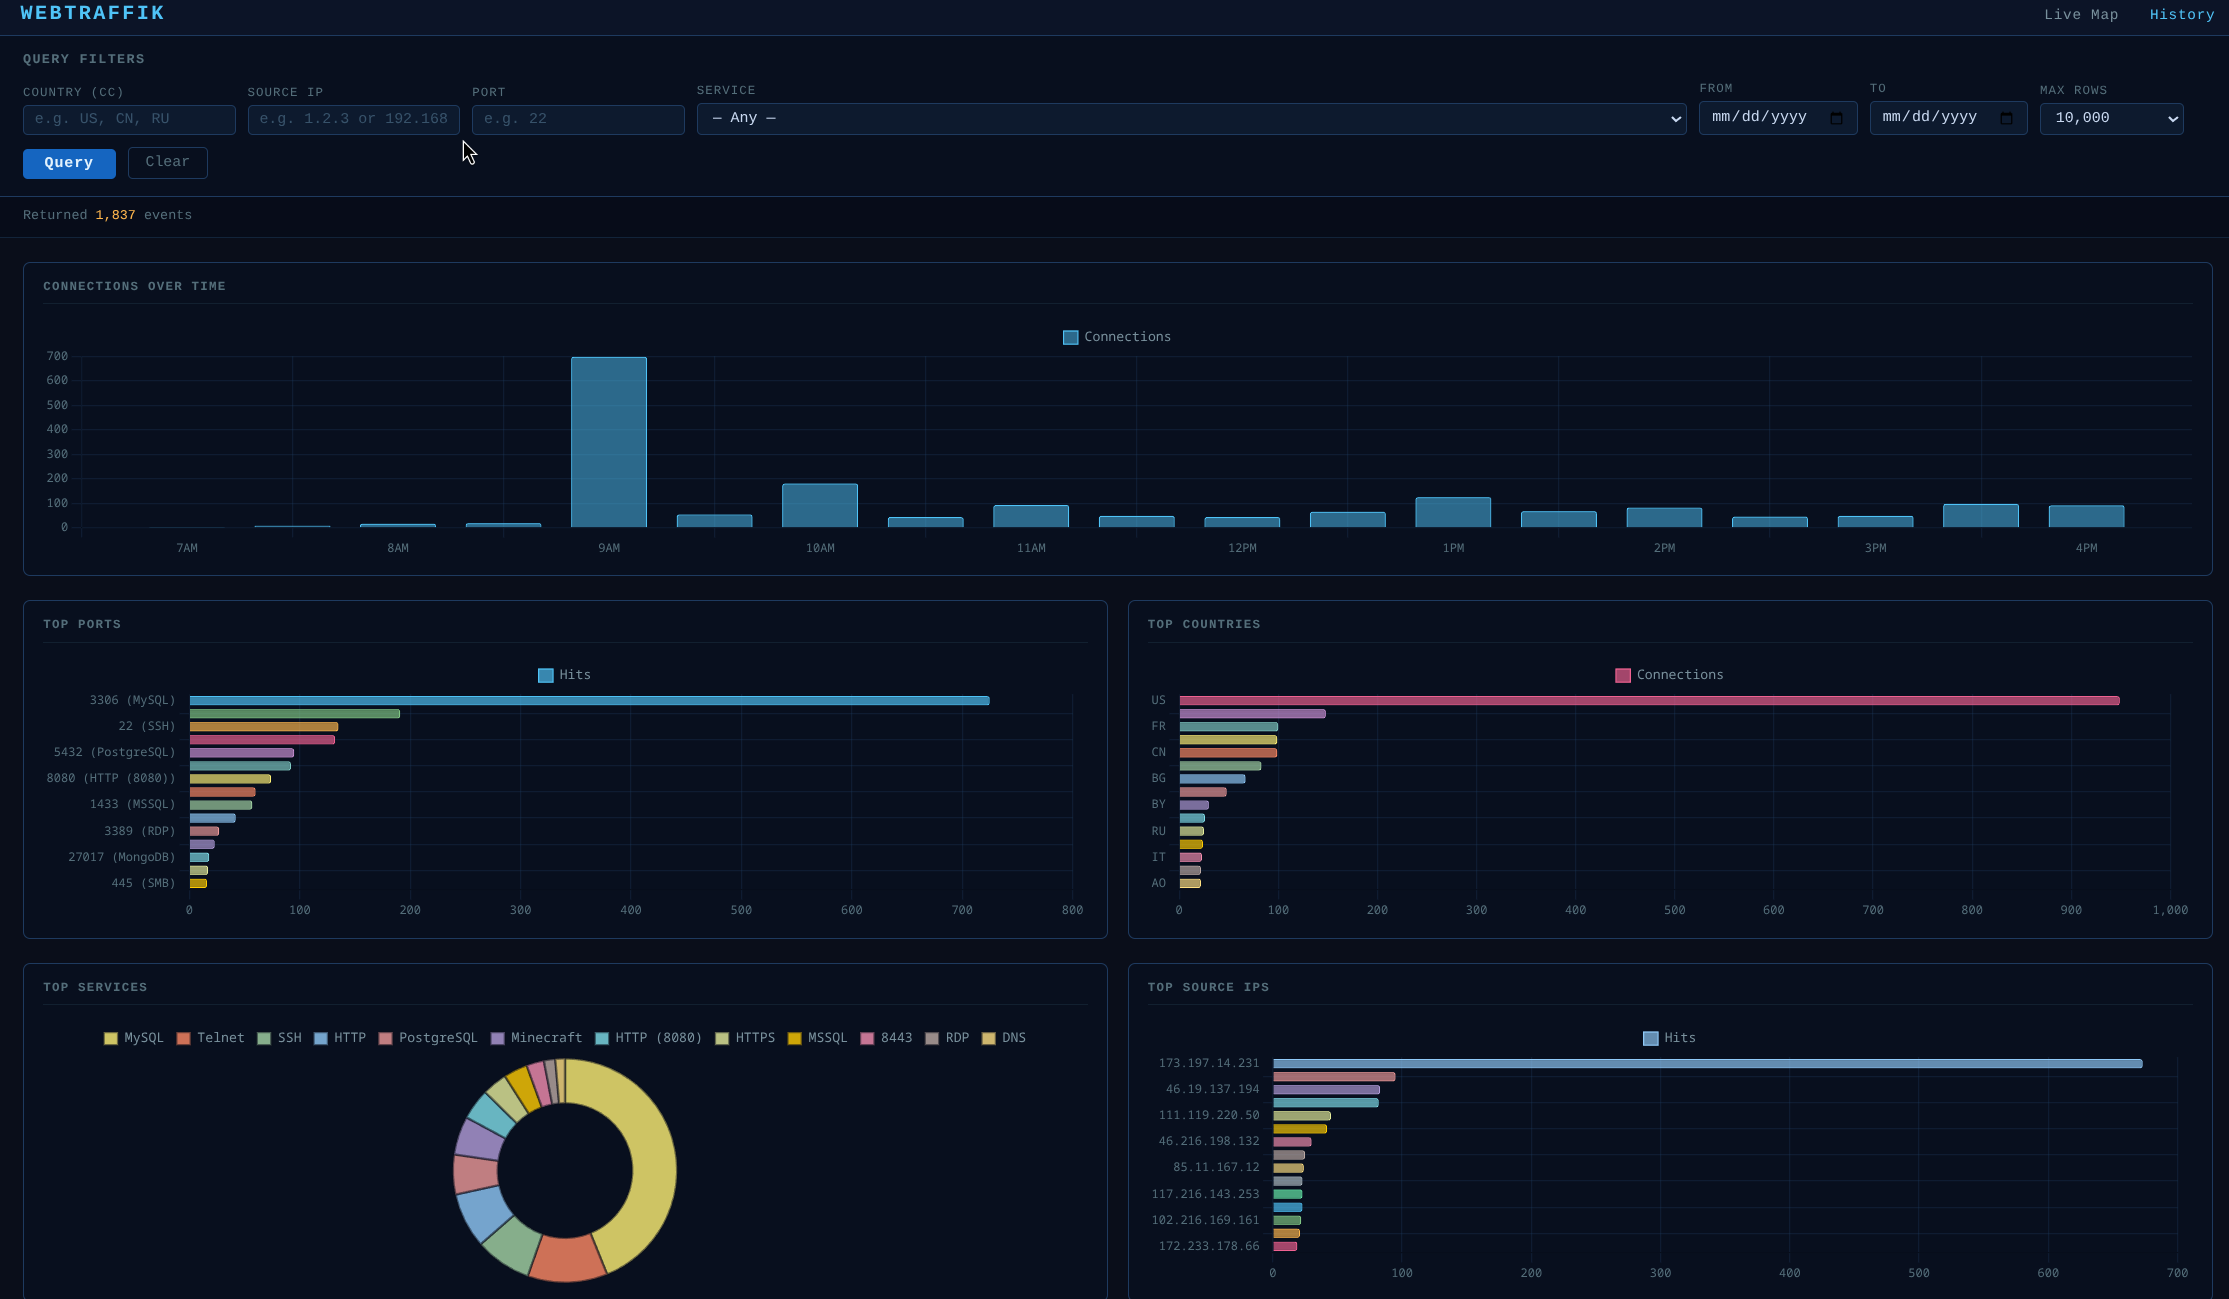
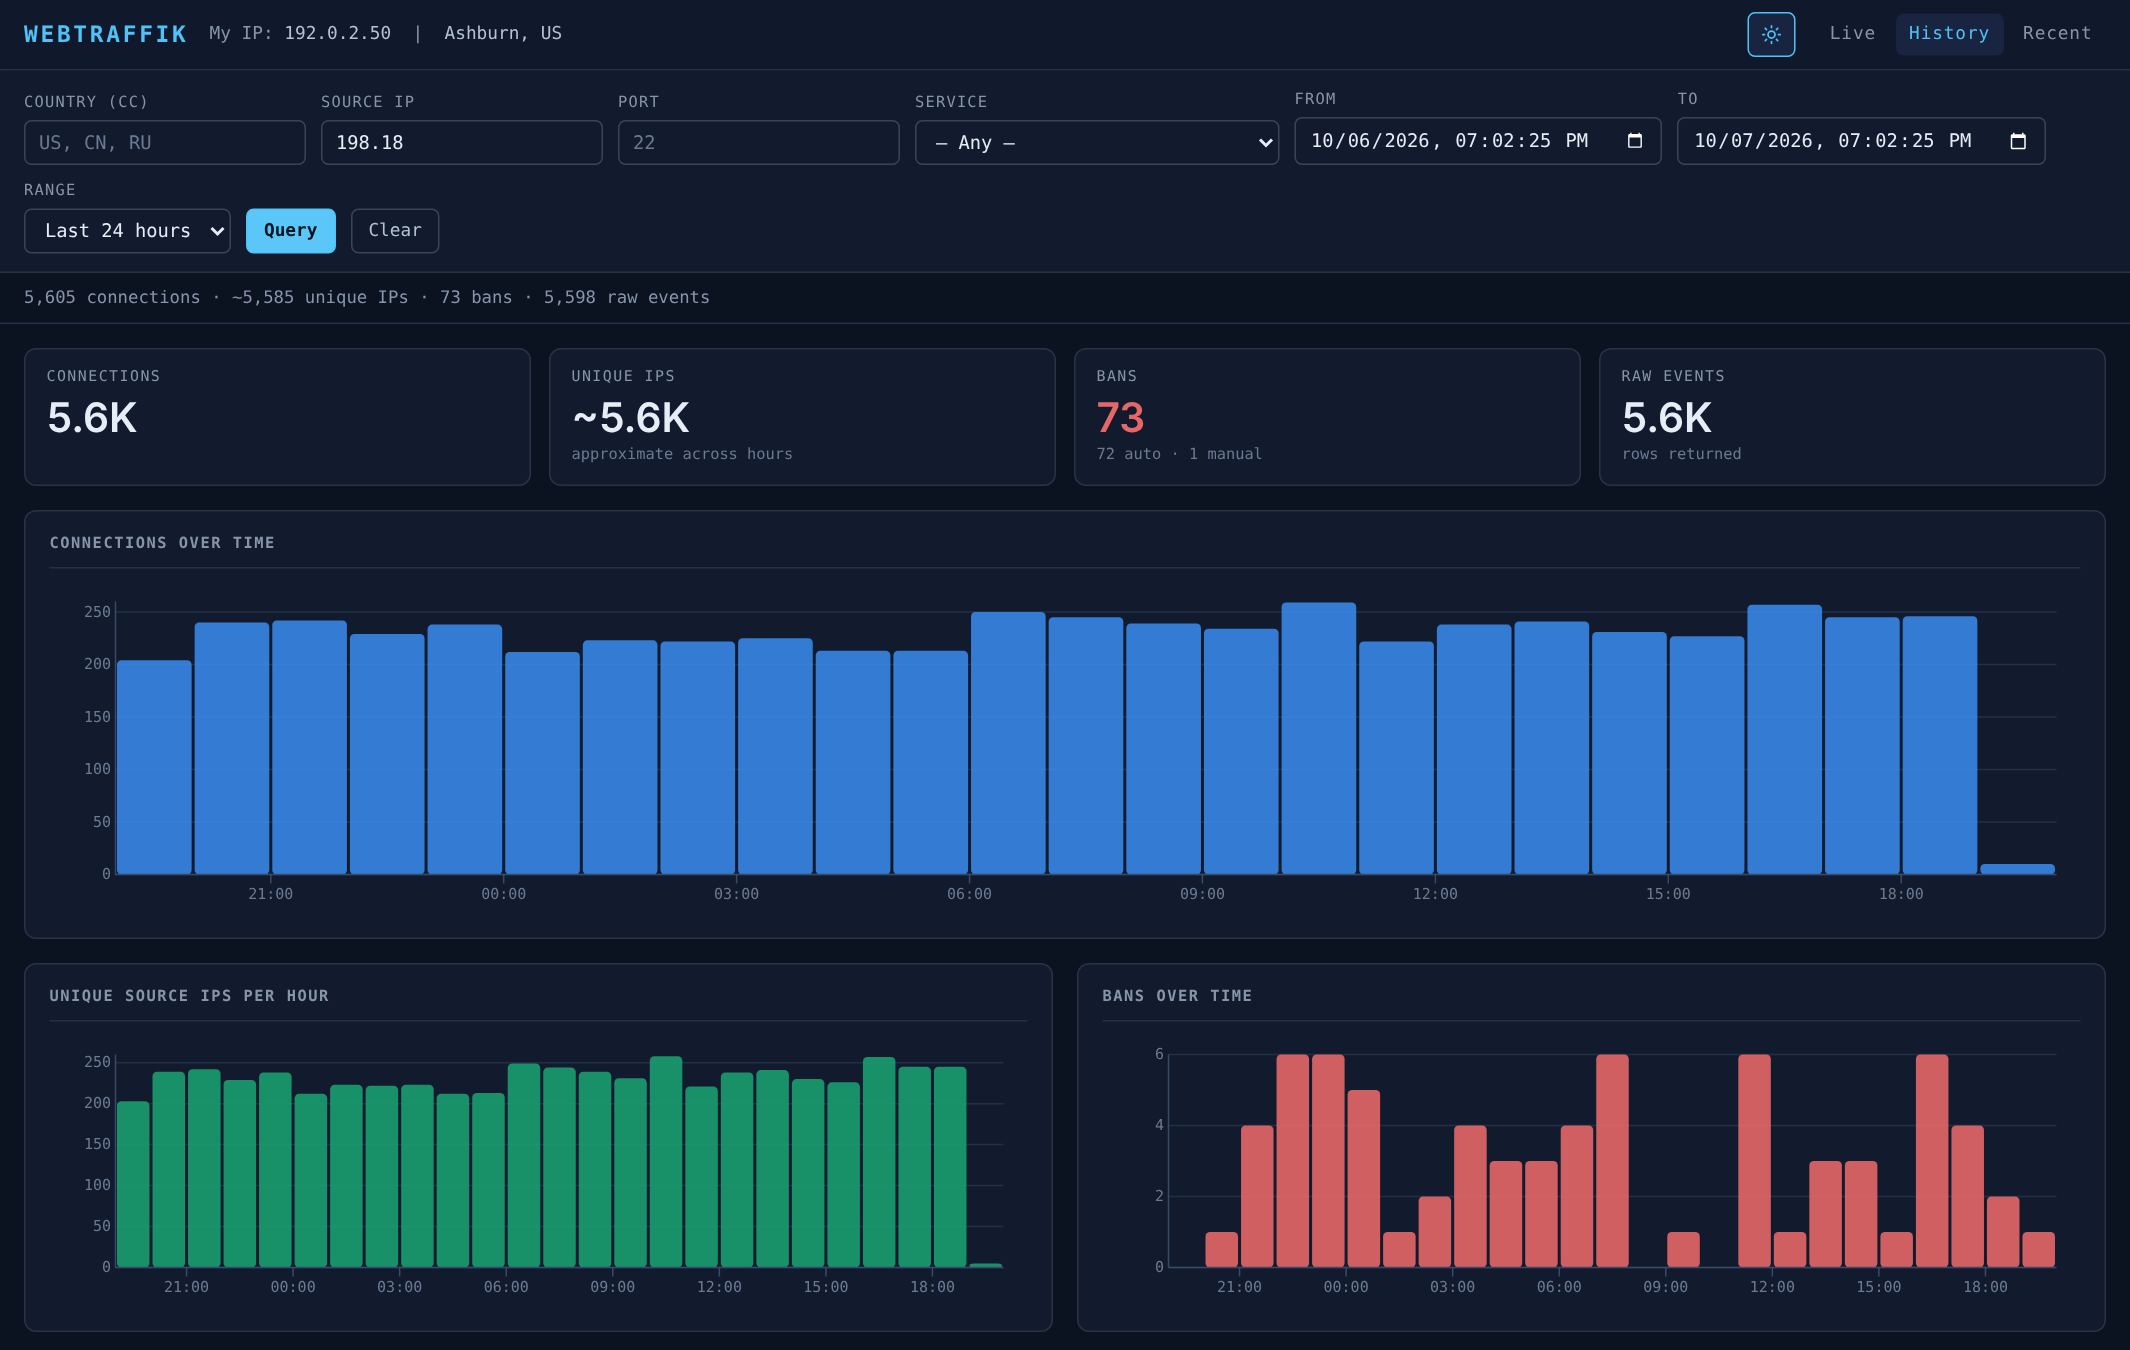
docs: refresh screenshots with the new UI
Screenshots are rendered by the real backend and frontend against synthetic
demo data (reserved 198.18.0.0/15 sources); README descriptions updated to
match the new panels and history page.

Claude-Session: https://claude.ai/code/session_01EvYwQiAUnnKkakdrqsJBnX

diff --git a/README.md b/README.md
@@ -47,21 +47,21 @@ The dashboard streams events over WebSocket (`/ws?hours=1..24`): history is repl
 
 ![webTraffik Dashboard](screenshot.png)
 
-The dashboard shows:
-- A full-width world map with your server location marked in cyan
-- Animated arcs from visitor IPs to your server (optimized with gradient pooling and 20-point path sampling)
-- Persistent dots with mouseover tooltips showing "City, CC"
-- Two corner overlay panels on the map:
-  - **Top-left**: Top Services (service names with bar charts showing relative traffic)
-  - **Top-right**: Banned IPs (currently banned source IPs)
-- A scrolling log panel at the bottom showing all connections with timestamps, geolocation details, and service names (e.g., `:22 SSH`, `:3306 MySQL`); click any entry to replay its arc on the map
+*Screenshots use synthetic demo traffic (sources are in the reserved 198.18.0.0/15 benchmarking range), rendered by the real backend and UI.*
+
+The live dashboard shows:
+- A world map with your server marked in cyan, animated great-circle arcs from each source (colored by port), persistent dots, and a zoom inset for the latest arrival
+- **Left**: Top Services (live counts per service) and the Capture Mode panel (mode, interface, eBPF passed/dropped packets, active bans, uptime)
+- **Right**: Port Scanners, Banned IPs (with one-click unban) and Last Seen sources
+- **Top bar**: connection status, your IP/location, connection count, replay-window slider (1–24 h), pause/resume, sound and theme toggles
+- A scrolling log at the bottom; click any entry to replay its arc, or double-click a dot to trace the route
 
 ## History Page
 
-The history page filters and charts stored events by country, source IP prefix, port, service, tag/ASN (API), and date range (with presets):
-- Stat tiles and a connections / unique-IPs / bans timeline, auto-bucketed to the queried range
-- Top ports, countries, services and source IPs; per-port and per-country timelines
-- A result table with the captured detail and tags; the **Recent** page shows live hex dumps of client payloads with filters
+The history page filters and charts stored events by country, source IP prefix, port, service and date range (with presets) — the screenshot above is filtered to one source range over the last 24 hours:
+- Stat tiles (connections, unique IPs, bans with an auto/manual split, rows returned) and timelines for connections, unique IPs and bans
+- Below the fold: top ports, countries, services and source IPs, per-port and per-country timelines, an eBPF capture section, and a result table with captured detail and tags
+- The **Recent** page shows live hex dumps of client payloads with filters
 
 ## Quick Start
 
